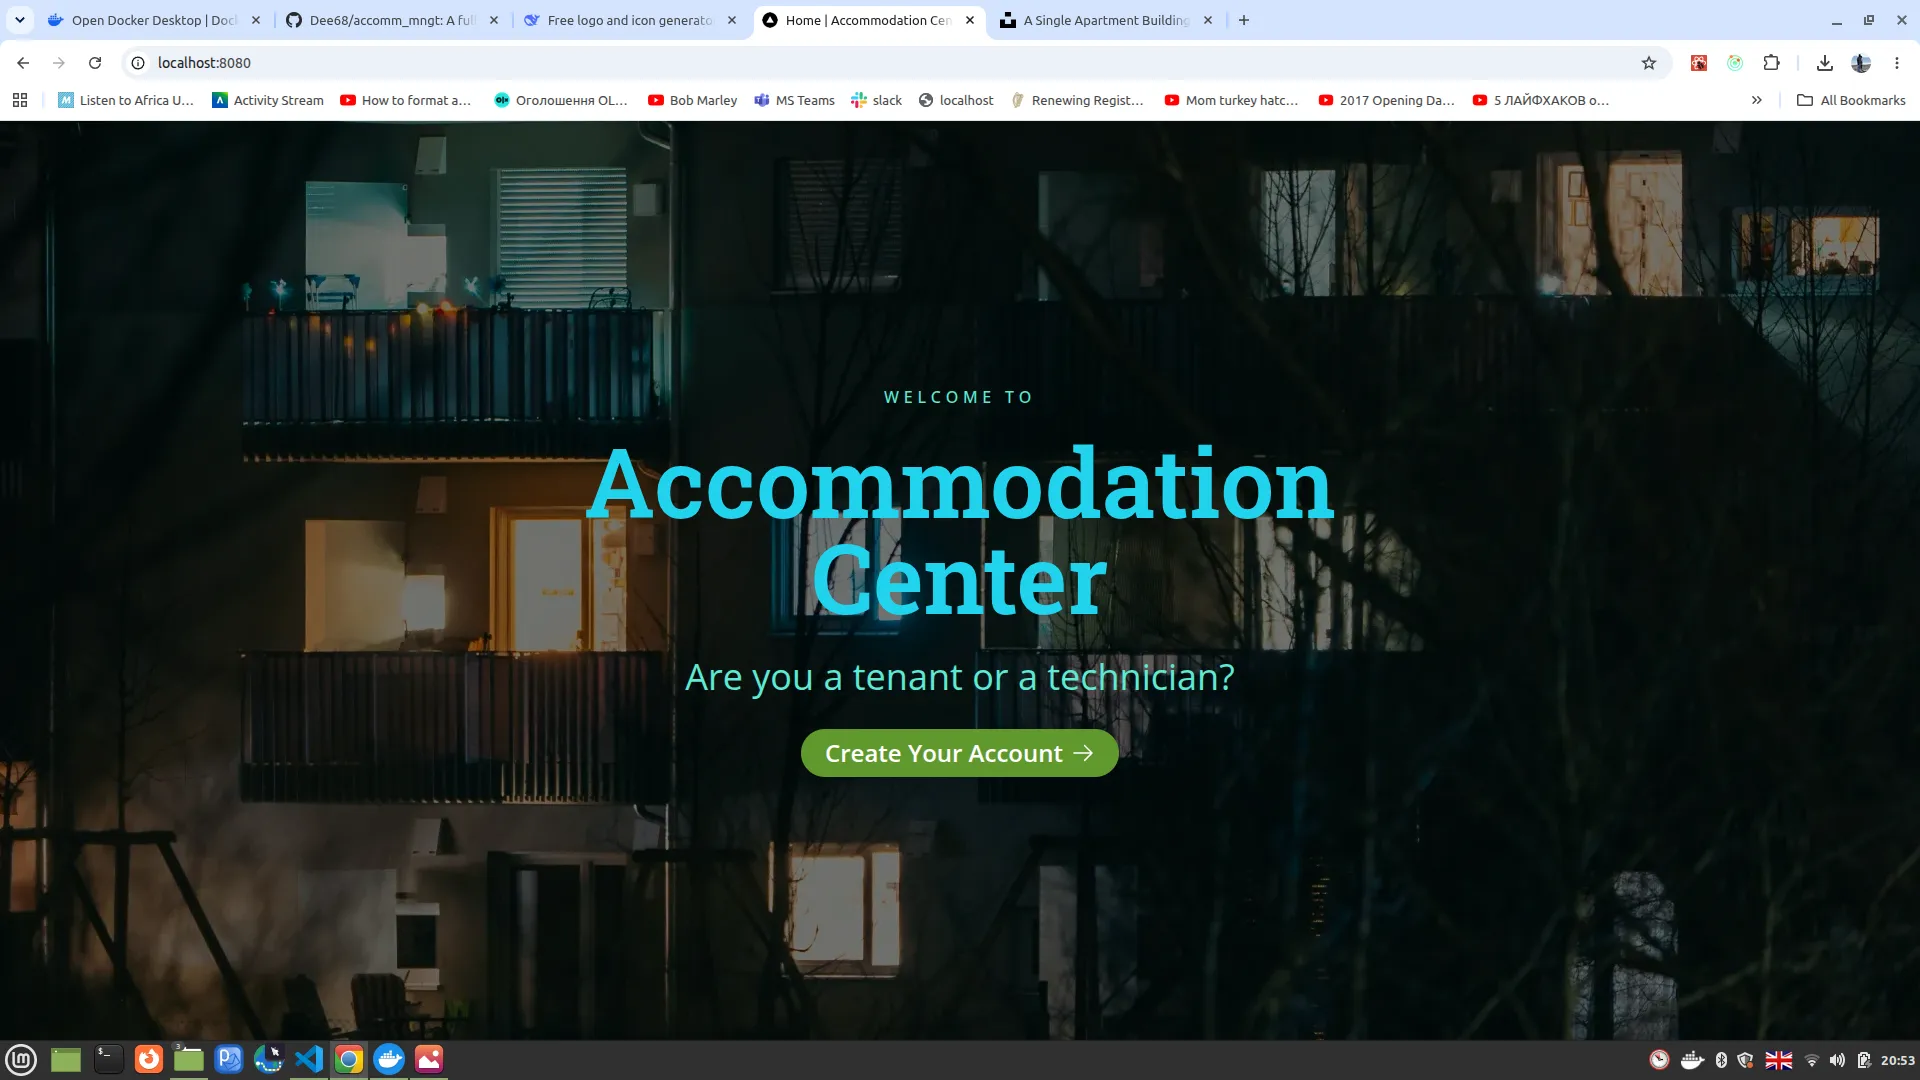
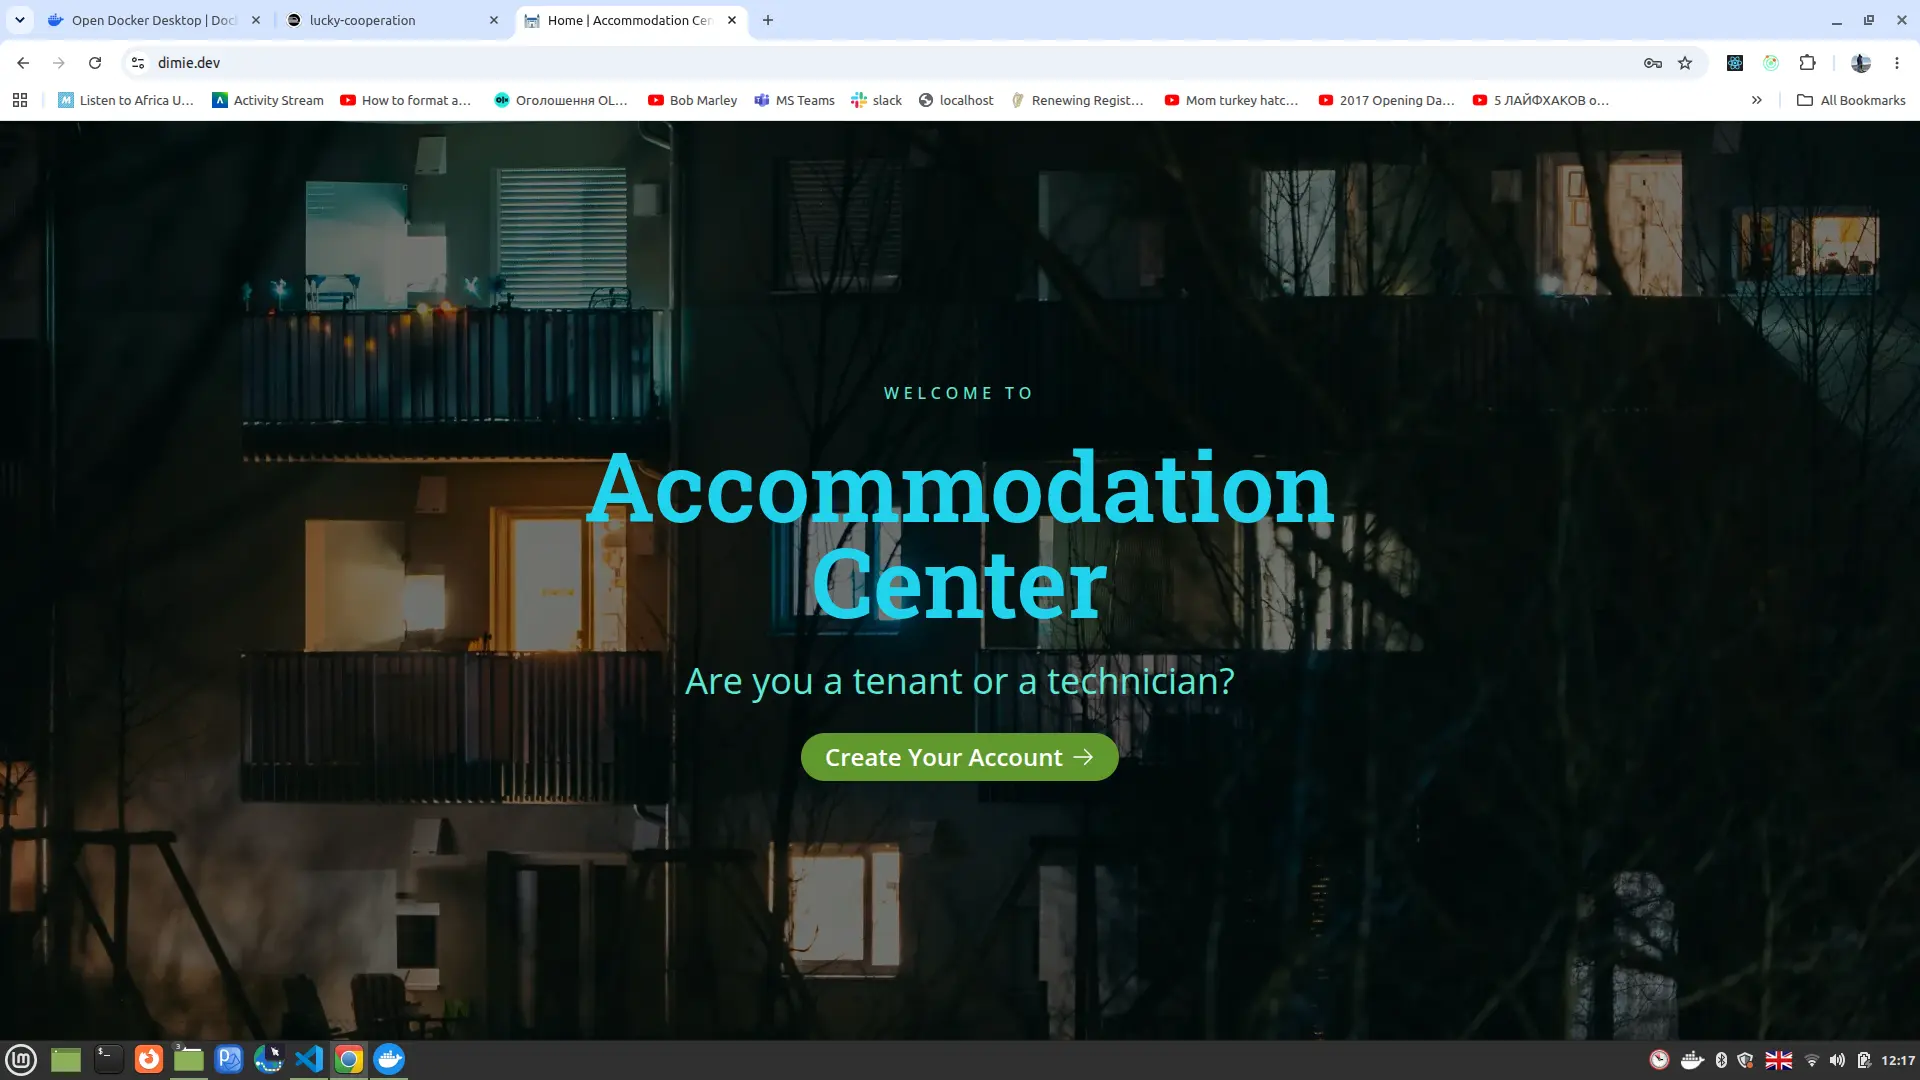
Readme file updated with images.

diff --git a/README.md b/README.md
@@ -1,5 +1,5 @@
 # Accommodation Center
-**Live demo:** https://dimie.dev
+**[Live demo](https://dimie.dev)** 
 
 A full-stack platform for managing residential buildings. Tenants are
 assigned to apartments, maintenance issues are tracked from report to
@@ -19,11 +19,14 @@ other. Built with Django, Next.js, PostgreSQL, and Celery.
 - Bookmark and vote on posts
 - Rate technicians after a service
 
+![Accommodation Center login user](docs/screenshots/login-user.webp)
+
 **For technicians**
 - Sign in and see issues assigned to them
 - Update the status of assigned issues
 - Browse the community forum
 
+![Accommodation Center Post forum](docs/screenshots/post-forum.webp)
 **For administrators**
 - Full Django admin with filters, search, and bulk actions
 - Manage apartments, tenants, issues, and technicians
@@ -31,6 +34,13 @@ other. Built with Django, Next.js, PostgreSQL, and Celery.
 - Monitor background tasks via Flower
 - Review and act on user reports
 - Moderate users (banned after five reports, with automatic account deactivation)
+
+![Accommodation Center Admin Interface](docs/screenshots/admin-interface.webp)
+
+![Accommodation Center Email activation](docs/screenshots/activation.webp)
+
+![Accommodation Center Tenant Report Email](docs/screenshots/report.webp)
+![Accommodation Center Tenant Warning Email](docs/screenshots/warning.webp)
 
 ## Stack
 
@@ -110,6 +120,10 @@ Emails are sent through Celery using `CeleryEmailBackend`, so they don't
 block the request cycle. In development, Mailpit intercepts every
 outbound message. In production, the SMTP backend points at a
 transactional email provider through environment variables.
+
+![Accommodation Center Issue Report Email](docs/screenshots/issue.webp)
+![Accommodation Center Issue Assignment Email](docs/screenshots/assignment.webp)
+![Accommodation Center Issue Resolution Email](docs/screenshots/resolution.webp)
 
 ## Environment variables
 
